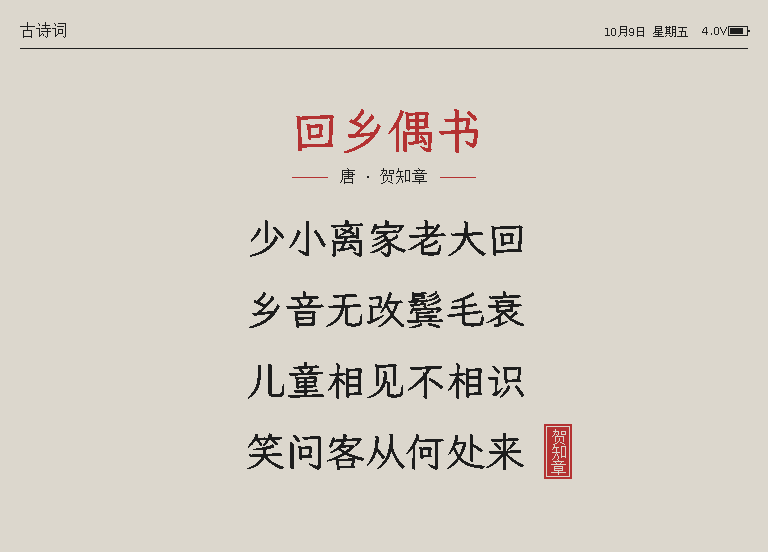
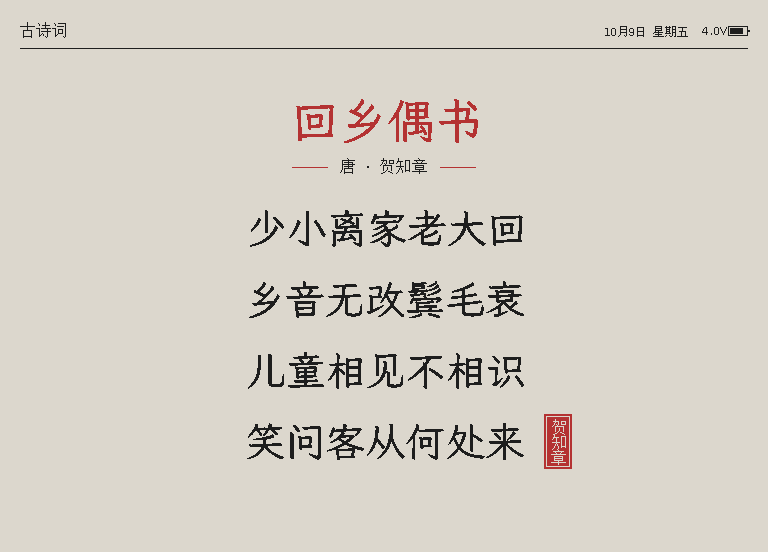
Poetry a little higher (free space 1:2 above / below); 一言 at most 32 px on the 5.83" / 7.5"

diff --git a/server/src/screens/hitokoto.ts b/server/src/screens/hitokoto.ts
@@ -38,7 +38,9 @@ export function renderHitokoto(panel: Panel, ctx: ScreenContext) {
   const textX = m + (large ? 50 : 26), textW = W - m - textX;
   const top = f.top + (large ? 24 : 14);
   const area = srcTop - (large ? 20 : 10) - top;
-  const fonts: RefFont[] = [...cjkDisplay(large, large ? 40 : 32), wqy12, wqy9];
+  // (at most 32 px on the 5.83" / 7.5": 40 there comes out 1.7x the 3.98"'s, see Panel.ppi)
+  const dense = large && (panel.ppi ?? 130) >= 200;
+  const fonts: RefFont[] = [...cjkDisplay(large, dense ? 40 : 32), wqy12, wqy9];
   const font = fonts.find((rf) => wrapText(rf, q.text, textW).length * lineH(rf) <= area) ?? fonts[fonts.length - 1];
   const lh = lineH(font);
   const lines = wrapText(font, q.text, textW, Math.max(1, Math.floor(area / lh)));

diff --git a/server/src/screens/poetry.ts b/server/src/screens/poetry.ts
@@ -129,7 +129,7 @@ export function renderPoetry(panel: Panel, ctx: ScreenContext) {
   const maxW = W - 2 * m - 2 * pad, maxH = H - f.top - 2 * pad;
   const L = plan(poem, large, maxW, maxH);
   const cx = Math.round(W / 2);
-  let y = f.top + pad + Math.max(0, Math.round((maxH - L.h) / 2));
+  let y = f.top + pad + Math.max(0, Math.round((maxH - L.h) / 3));
 
   // title (red) and "朝代 · 作者" with short red rules either side
   y += L.title.ascent;
